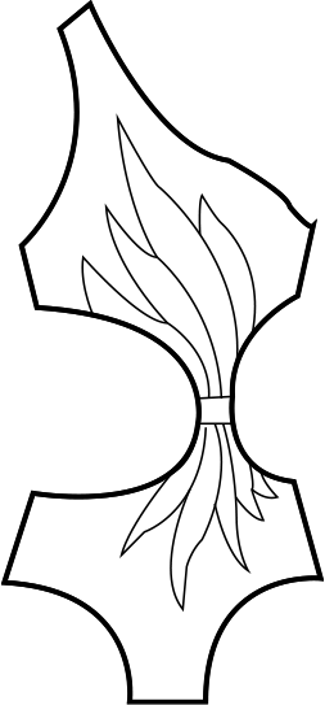
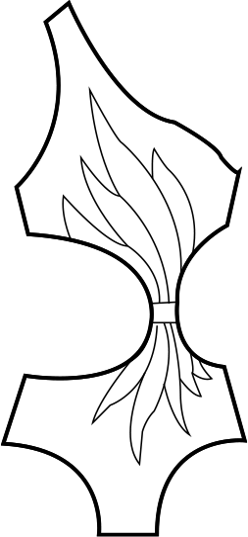
styles: resized photos

diff --git a/pages/shop/index.js b/pages/shop/index.js
@@ -77,6 +77,7 @@ const Shop = () => {
                             <div className="column is-narrow">
                                 <figure className="image is-clickable is-128x128">
                                     <img
+                                        style={{ width: '120px', height: '120px' }}
                                         src="media/images/top-1.png"
                                         alt=""
                                         onClick={() => router.push('/shop/top-1')}
@@ -86,6 +87,7 @@ const Shop = () => {
                             <div className="column is-narrow">
                                 <figure className="image is-clickable is-128x128">
                                     <img
+                                        style={{ width: '120px', height: '120px' }}
                                         src="media/images/top-2.png"
                                         alt=""
                                         onClick={() => router.push('/shop/top-2')}
@@ -95,9 +97,9 @@ const Shop = () => {
                             <div className="column is-narrow">
                                 <figure className="image is-clickable is-128x128">
                                     <img
+                                        style={{ width: '100px', height: '170px' }}
                                         src="media/images/top-3.png"
                                         alt=""
-                                        style={{ height: '200px' }}
                                         onClick={() => router.push('/shop/top-3')}
                                     />
                                 </figure>
@@ -105,9 +107,9 @@ const Shop = () => {
                             <div className="column is-narrow">
                                 <figure className="image is-clickable is-128x128">
                                     <img
+                                        style={{ width: '100px', height: '170px' }}
                                         src="media/images/top-4.png"
                                         alt=""
-                                        style={{ height: '200px' }}
                                         onClick={() => router.push('/shop/top-4')}
                                     />
                                 </figure>
@@ -115,6 +117,7 @@ const Shop = () => {
                             <div className="column is-narrow">
                                 <figure className="image is-clickable is-128x128">
                                     <img
+                                        style={{ width: '120px', height: '120px' }}
                                         src="media/images/top-5.png"
                                         alt=""
                                         onClick={() => router.push('/shop/top-5')}

diff --git a/pages/accessories/index.js b/pages/accessories/index.js
@@ -17,23 +17,31 @@ const Accessoires = () => {
                         <div className="content is-large">
                             <h1 className="title has-font-roboto has-text-hgold">Accessoires</h1>
                             <hr className="has-text-hdarkred" />
-                            <div className="columns">
-                                <div className="column is-narrow">
-                                    <figure className="image is-clickable is-128x128">
+                            <div className="columns is-centered">
+                                <div className="column is-flex is-justify-content-center">
+                                    <figure className="image is-clickable">
                                         <img
-                                            src="media/images/accessory-pic-1.png"
+                                            style={{ width: '400px', height: '400px' }}
+                                            src="/media/images/accessory-pic-1.png"
                                             alt=""
                                             onClick={() => router.push('/accessories/accessory-1')}
                                         />
+                                        <figcaption className="has-font-footlight has-text-hdarkred has-text-centered">
+                                            <h1 className="title is-4 pt-4">Planche d&apos;accessoires</h1>
+                                        </figcaption>
                                     </figure>
                                 </div>
-                                <div className="column is-narrow">
-                                    <figure className="image is-clickable is-128x128">
+                                <div className="column is-flex is-justify-content-center">
+                                    <figure className="image is-clickable">
                                         <img
-                                            src="media/images/accessory-pic-2.png"
+                                            style={{ width: '400px', height: '400px' }}
+                                            src="/media/images/accessory-pic-2.png"
                                             alt=""
                                             onClick={() => router.push('/accessories/accessory-2')}
                                         />
+                                        <figcaption className="has-font-footlight has-text-hdarkred has-text-centered">
+                                            <h1 className="title is-4 pt-4">Accessoires</h1>
+                                        </figcaption>
                                     </figure>
                                 </div>
                             </div>

diff --git a/pages/home/index.js b/pages/home/index.js
@@ -20,7 +20,7 @@ const Home = () => {
                             <li>Introduction sur l&apos;art nouveau</li>
                             <li>Introduction sur ma collection</li>
                             <li>Moodboard</li>
-                            <li>Inspiration</li>
+                            <li>Inspiration de mode</li>
                             <li>Détails de mode</li>
                             <li>Adn</li>
                             <li>Planche</li>
